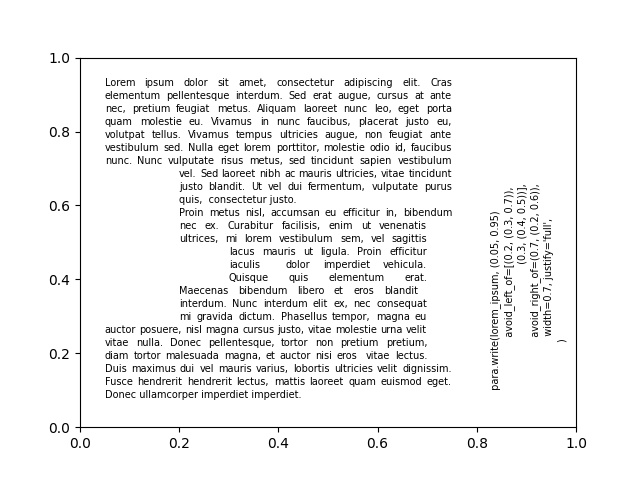
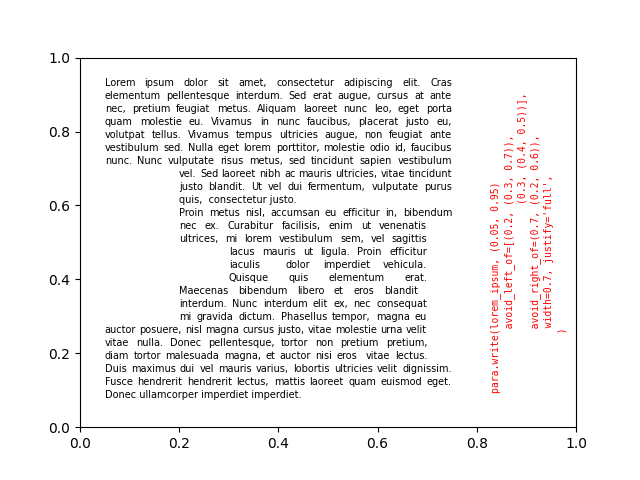
Better readme, accepting color, rotation, family and fontame in .write

Changed region(s): [[0.75, 0.2812, 0.875, 0.8125], [0.8125, 0.2188, 0.8438, 0.25]]

diff --git a/parampl/core.py b/parampl/core.py
@@ -13,6 +13,8 @@ class ParaMPL:
                  spacing: float = 0.5,
                  width: float = 1.0,
                  fontsize: float = 10,
+                 fontname: str | None = None,
+                 family: str | None = None,
                  color: None | str | tuple[float, float, float] = None,
                  transform: str = 'data',
                  ):
@@ -36,6 +38,8 @@ class ParaMPL:
         self.axes = axes
         self.fontsize = fontsize
         self.color = color
+        self.family = family
+        self.fontname = fontname
 
         self._renderer = axes.figure.canvas.get_renderer()
         if transform == 'data':
@@ -50,10 +54,13 @@ class ParaMPL:
               text: str,
               xy: tuple[float, float],
               collapse_whites: bool = True,
+              paragraph_per_line: bool = False,
               width: float | None = None,
               spacing: float | None = None,
               fontsize: float | None = None,
               color: str | None = None,
+              fontname: str | None = None,
+              family: str | None = None,
               rotation: float = 0,
               justify: str = 'left',
               ha: str = 'left',
@@ -100,8 +107,21 @@ Write text into a paragraph
             fontsize = self.fontsize
         if color is None:
             color = self.color
+        if family is None:
+            family = self.family
+        if fontname is None:
+            fontname_dict = {}
+        else:
+            fontname_dict = {'fontname': self.fontname}
 
         ax = self.axes
+
+        def write_line(left, bottom, text_in_line):
+
+            ax.text(left, bottom, text_in_line,
+                    fontsize=fontsize, color=color, rotation=rotation,
+                    family=family, **fontname_dict)
+
         old_artists = list(ax.texts)
 
         if ax.get_ylim()[1] < ax.get_ylim()[0] or ax.get_xlim()[1] < ax.get_xlim()[0]:
@@ -110,7 +130,7 @@ Write text into a paragraph
         if va != 'top' and (avoid_left_of is not None or avoid_right_of is not None):
             raise ValueError("if using avoid areas, then va='top' must be used")
 
-        widths, height, combined_hash = self._get_widths_height(fontsize,
+        widths, height, combined_hash = self._get_widths_height(fontsize, family, fontname,
                                                                 words=text.split())
         space_width = widths[' ']
 
@@ -137,7 +157,10 @@ Write text into a paragraph
 
         words = []
         length = 0
-        paragraphs = split_into_paragraphs(text, collapse_whites=collapse_whites)
+        paragraphs = split_into_paragraphs(text,
+                                           collapse_whites=collapse_whites,
+                                           paragraph_per_line=paragraph_per_line,
+                                           )
 
         limit, xx, width_line = borders.pop(0)
 
@@ -147,8 +170,8 @@ Write text into a paragraph
                 for word in paragraph.split(' '):
                     if length + widths[word] > width_line:
                         justify_offset = justify_mult * (width_line - length + space_width)
-                        ax.text(xx + justify_offset, yy, ' '.join(words),
-                                fontsize=fontsize, color=color, rotation=rotation)
+                        write_line(xx + justify_offset, yy, ' '.join(words))
+
                         xx, yy = xx + delta_xx, yy + delta_yy
                         length, words = 0, []
 
@@ -159,8 +182,8 @@ Write text into a paragraph
                     words.append(word)
 
                 justify_offset = justify_mult * (width_line - length + space_width)
-                ax.text(xx + justify_offset, yy, ' '.join(words),
-                        fontsize=fontsize, color=color, rotation=rotation)
+                write_line(xx + justify_offset, yy, ' '.join(words))
+
                 length, words = 0, []
                 xx, yy = xx + delta_xx, yy + delta_yy
 
@@ -173,8 +196,7 @@ Write text into a paragraph
                         else:
                             extra_spacing = 0
                         for old_width in words:
-                            ax.text(x, yy, old_width,
-                                    fontsize=fontsize, color=color, rotation=rotation)
+                            write_line(x, yy, old_width)
                             x += extra_spacing + space_width + widths[old_width]
                         length = 0
                         words = []
@@ -188,8 +210,7 @@ Write text into a paragraph
                     length += widths[word] + space_width
                     words.append(word)
 
-                ax.text(xx, yy, ' '.join(words),
-                        fontsize=fontsize, color=color, rotation=rotation)
+                write_line(xx, yy, ' '.join(words))
                 length = 0
                 words = []
                 yy += delta_yy
@@ -213,11 +234,12 @@ Write text into a paragraph
         elif va != 'top':
             raise ValueError(f"invalid va '{va}'. Must be 'top', 'bottom', or 'center'")
 
-    def _get_widths_height(self, fontsize,
+    def _get_widths_height(self, fontsize, family, fontname,
                            words: list[str] = None,
                            ):
-        text_artist = self.axes.text(0, 0, ' ', fontsize=fontsize)
-        combined_hash = (fontsize,)  # todo: probably font name should be in here
+        text_artist = self.axes.text(0, 0, ' ',
+                                     fontsize=fontsize, fontname=fontname, family=family)
+        combined_hash = (fontsize, family, fontname)
 
         if combined_hash not in self.widths:
             text_artist.set_text(' ')

diff --git a/parampl/statics.py b/parampl/statics.py
@@ -8,17 +8,25 @@ border_single_specification = tuple[float, float, float]
 border_specification = border_single_specification | list[border_single_specification]
 
 
-def split_into_paragraphs(text, collapse_whites=True):
+def split_into_paragraphs(text, collapse_whites=True, paragraph_per_line=False):
     if collapse_whites:
         text = re.sub(r' +', ' ', text)
 
-        def pre_process(x):
-            return x.strip()
+        def pre_process(x, rep):
+            return x.strip().replace(rep, " ")
     else:
-        def pre_process(x):
-            return x
+        def pre_process(x, rep):
+            return x.replace(rep, " ")
 
-    ret = [pre_process(para).replace("\n", " ") for para in re.split('\n\n+', text)]
+    if paragraph_per_line:
+        split_words = ' '
+        split_paragraph = '\n'
+    else:
+        split_words = '\n'
+        split_paragraph = '\n\n'
+
+    ret = [pre_process(para, split_words)
+           for para in re.split(f'{split_paragraph}+', text)]
     return ret
 
 

diff --git a/quickstart.py b/quickstart.py
@@ -32,20 +32,15 @@ para.write(lorem_ipsum, test_xy,
            width=test_width, justify='full',
            )
 
-para.write("""
-para.write(lorem_ipsum, (0.05, 0.95)
-
-                  avoid_left_of=[(0.2, (0.3, 0.7)),
-
-                                         (0.3, (0.4, 0.5))],
-
-                  avoid_right_of=(0.7, (0.2, 0.6)),
-
-                  width=0.7, justify='full',
-
-                 )
-""", (0.8, 0.1), rotation=90, collapse_whites=False,
-           justify='left', spacing=0)
-
+para.write("""para.write(lorem_ipsum, (0.05, 0.95)
+           avoid_left_of=[(0.2, (0.3, 0.7)),
+                                (0.3, (0.4, 0.5))],
+           avoid_right_of=(0.7, (0.2, 0.6)),
+           width=0.7, justify='full',
+          )
+""", (0.8, 0.1), rotation=90,
+           collapse_whites=False, paragraph_per_line=True,
+           justify='left', spacing=0,
+           family='monospace', color='red')
 
 f.show()

diff --git a/README.md b/README.md
@@ -17,3 +17,4 @@ parampl.write(lorem.paragraph(), (0.05, 0.95),
 ```
 
 ![Sample with 'full' justify](sample_full.png)
+(Full code in quickstart.py)
